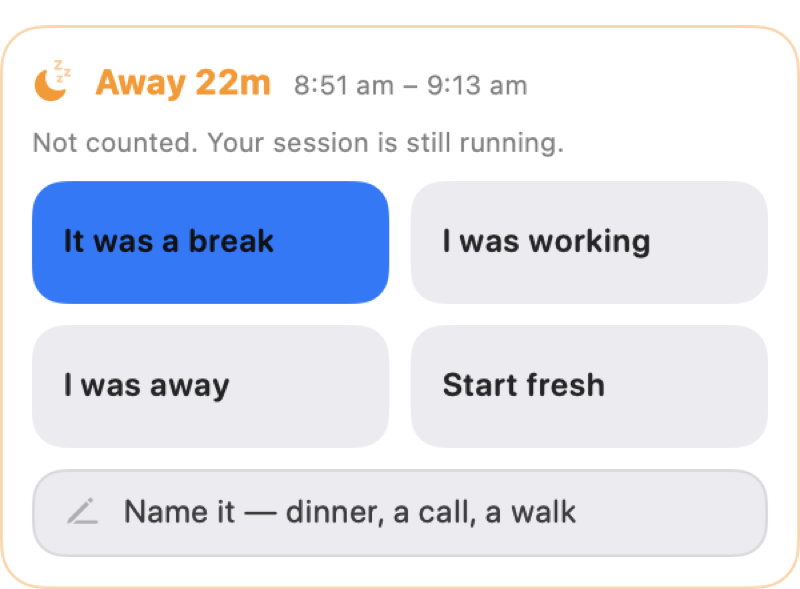
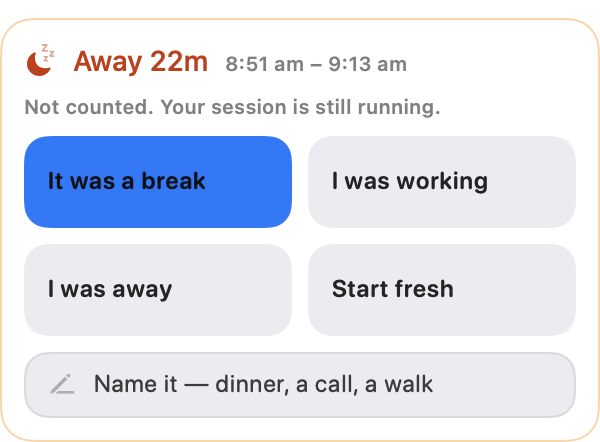
The README and usage guide describe the app as it is now
The README had fallen a week behind. It said the app was not
distributed, though releases now go to GitHub Releases and installed
copies update through Sparkle. It named two things that can leave the
Mac and missed the iCloud Drive backup you can ask for. It listed one
app-use file where there are now a snapshot and a journal. The feature
list now has the global shortcut you can record, backups and updates,
the whole-interface zoom, and History's each-day chart and period cards.
It also says that every push runs the checks on macOS 26 in UTC, that
the first build fetches Sparkle against a pinned checksum, and how the
FocusContinuity data carries across.

The five screenshots are rendered again from the snapshot matrix on
main. The History ones showed History before its chart, path bar and
period cards; the day one now shows an open session with its apps and
app activity, as its caption always said. The away prompt is at its
native size rather than scaled up.

The usage guide listed five Settings pages. There are seven, with
Activities and About & Updates on their own, and each row now names
what its page holds.

diff --git a/README.md b/README.md
@@ -74,7 +74,9 @@ never content. The session names, intents and notes you write are content, and
 they are kept on the Mac. Two things can reach another server: the update check
 asks GitHub for the latest version, and dictating a note uses Apple's speech
 recognition, which runs on the Mac where your language supports that and
-otherwise may send the audio to Apple. The app asks for no Accessibility,
+otherwise may send the audio to Apple. A backup, made only when you ask for
+one, is copied into iCloud Drive, which syncs it like any other document. The
+app asks for no Accessibility,
 Automation, Screen Recording or Input Monitoring permission; idle detection
 uses system counters, not event content. The prompts you will see are
 notifications (at first launch, for break reminders), and microphone and
@@ -87,7 +89,11 @@ it on, adds a login item.
   use an injected clock, isolated preferences and temporary archives, so they
   cover session state transitions, cross-midnight clipping, wake and presence
   handling, persistence failures, accuracy epochs, corrections and Undo,
-  accessibility targets and settings effects without touching real data.
+  accessibility targets, settings effects and where rendered controls and
+  edges actually land, without touching real data.
+- **Every push** runs the same checks on GitHub Actions, on macOS 26 and in
+  UTC ([`check.yml`](.github/workflows/check.yml)), so they hold on the older
+  system and away from the Sydney Mac they are written on.
 - **A snapshot matrix** renders every surface in light, dark and system
   appearance through offscreen AppKit hosting, with real native controls, for
   visual review (`--snapshot`). The screenshots above come from it.
@@ -124,8 +130,10 @@ machinery that nothing used any more, with no change in behaviour.
   saying why and offering Undo
 - History as one timeline that unfolds: years into months, months into weeks,
   weeks into days, days into sessions, each a step in from its parent, back to
-  the first recorded day and no further. The rail describes whichever row is
-  open. Jump to date opens a calendar that shows each day's focus
+  the first recorded day and no further. A chart of each day heads it, the
+  top periods are cards with their days and category split, and the rail
+  describes whichever row is open. Jump to date opens a calendar that shows
+  each day's focus
 - Search at the top of History: sessions by name, note, app, category or date (⌘F)
 - History states only what the record supports: category shares, best two
   hours, goal rates, the best month or day, and the current month's pace,
@@ -133,8 +141,13 @@ machinery that nothing used any more, with no change in behaviour.
 - Custom categories with icons, colours, daily goals and break reminders
 - Session notes with in-app dictation, full session reports and named breaks
 - Awards derived from recorded evidence, with their criteria shown
+- A global shortcut (Control-Option-Space) that starts or ends a session from
+  any app; record your own in Settings
+- Backups to iCloud Drive on request, and updates from GitHub Releases,
+  checked automatically or on demand
 - A twelve-chapter first-run tour that can be skipped or replayed
-- Full keyboard operation, VoiceOver labels, light and dark appearance
+- Full keyboard operation, VoiceOver labels, light and dark appearance, and a
+  whole-interface zoom from 80% to 140% (⌘+, ⌘−, ⌘0 or a slider in Settings)
 
 The full guide to every surface and control is in [docs/usage.md](docs/usage.md).
 
@@ -156,7 +169,15 @@ it never keeps running from files the swap deleted.
 The binary is built with `-Osize` and stripped of local symbols. To profile
 with `sample`, build once with `FC_KEEP_SYMBOLS=1 ./build.sh`.
 
-The app is ad-hoc signed for local use; it is not notarised or distributed.
+The first build downloads Sparkle 2.10.0 into `.build/vendor` and checks it
+against a pinned SHA-256.
+
+The app is ad-hoc signed and not notarised. `scripts/release.sh <version>`
+runs the checks, builds, signs the update and publishes it to
+[GitHub Releases](https://github.com/prabeshbhetwal/Daybook/releases) with its
+feed; installed copies update through Sparkle and accept only updates signed
+with the project's EdDSA key, which stays in the Keychain.
+
 Builds that replace the local app take a lock at `.build/promotion.lock`, so a
 second build waits its turn. If a build is killed outright, remove that
 directory once no build is running.
@@ -187,9 +208,15 @@ One one-second ticker, in `SessionStore`, drives presence checks, usage
 checkpoints, live figures and break evaluation. The UI adds no timers of its
 own.
 
-Data lives in `~/Library/Application Support/Daybook/`:
-`sessions.json` for sessions and `app-usage.json` (a versioned v2 envelope)
-for app use, both written atomically.
+Data lives in `~/Library/Application Support/Daybook/`: `sessions.json` for
+sessions, and for app use a snapshot, `app-usage.json` (a versioned v2
+envelope), plus `app-usage-journal.jsonl`, the changes since that snapshot.
+Files are written atomically; a change is one appended journal line, and the
+snapshot is rewritten only when the journal grows long, so nothing is dropped.
+
+Until October 2026 the app was called FocusContinuity. Its first launch under
+the new name carries the data folder and preferences across and deletes
+nothing.
 
 ## Repository layout
 
@@ -202,8 +229,9 @@ Sources/
   Verification/         Focused regression groups and isolated native-window mode
   SelfTest.swift        Headless check suite
 build.sh                Build, signing, checks and local install
-scripts/                Fixture-only native verification
+scripts/                Releases, the Sparkle fetch, the fixture app and probes
 docs/                   Specs, plans, reviews, design references and screenshots
+.github/workflows/      Every self-check on each push
 ```
 
 ## Contributing

diff --git a/docs/usage.md b/docs/usage.md
@@ -141,15 +141,17 @@ intensity.
 
 ## Settings
 
-Settings groups the backed controls into five compact pages:
+Settings groups the backed controls into seven pages:
 
 | Page | Controls and information |
 |---|---|
-| General | Login item, menu bar time, appearance, density, zoom (80% to 140%, the same steps as the View menu), Story time gutter, entry expansion and the tour |
-| Sessions | Daily goal, activity rules and their application picker, guessing sessions from the app in front, ending a paused automatic session, and milestones |
+| General | Login item, menu bar icon and time, Dock icon, the global shortcut and the window's keys, the tour, appearance, density, zoom (80% to 140%, the same steps as the View menu), Story time gutter, entry expansion and folding quiet stretches |
+| Sessions | Daily goal, what usual pace compares with, how far back activity suggestions look, the streak's daily minimum, the category new sessions start as, the shortest session kept, how long an ended session is offered to continue, categories, guessing sessions from the app in front, ending a paused automatic session, and milestones |
+| Activities | Activity rules, their application picker, and whether they run |
 | Away & Breaks | Absence thresholds, full-screen prompt threshold and break reminders |
-| Recording | App recording and the number of recent app visits initially shown |
-| Privacy | Local storage, when app use was first measured precisely, the backup of older app use, Reveal data folder and diagnostics |
+| Recording | App recording, how many apps a card lists and how many recent app visits are shown |
+| Privacy | Local storage, when app use was first measured precisely, the backup of older app use, a backup of everything to iCloud Drive, and Reveal data folder |
+| About & Updates | Automatic update checks, how often and what happens when one is found, Check Now, and diagnostics |
 
 Each page or changed search result opens at its first control; search retains
 the result's group context. Long paths and recovery text wrap and are
